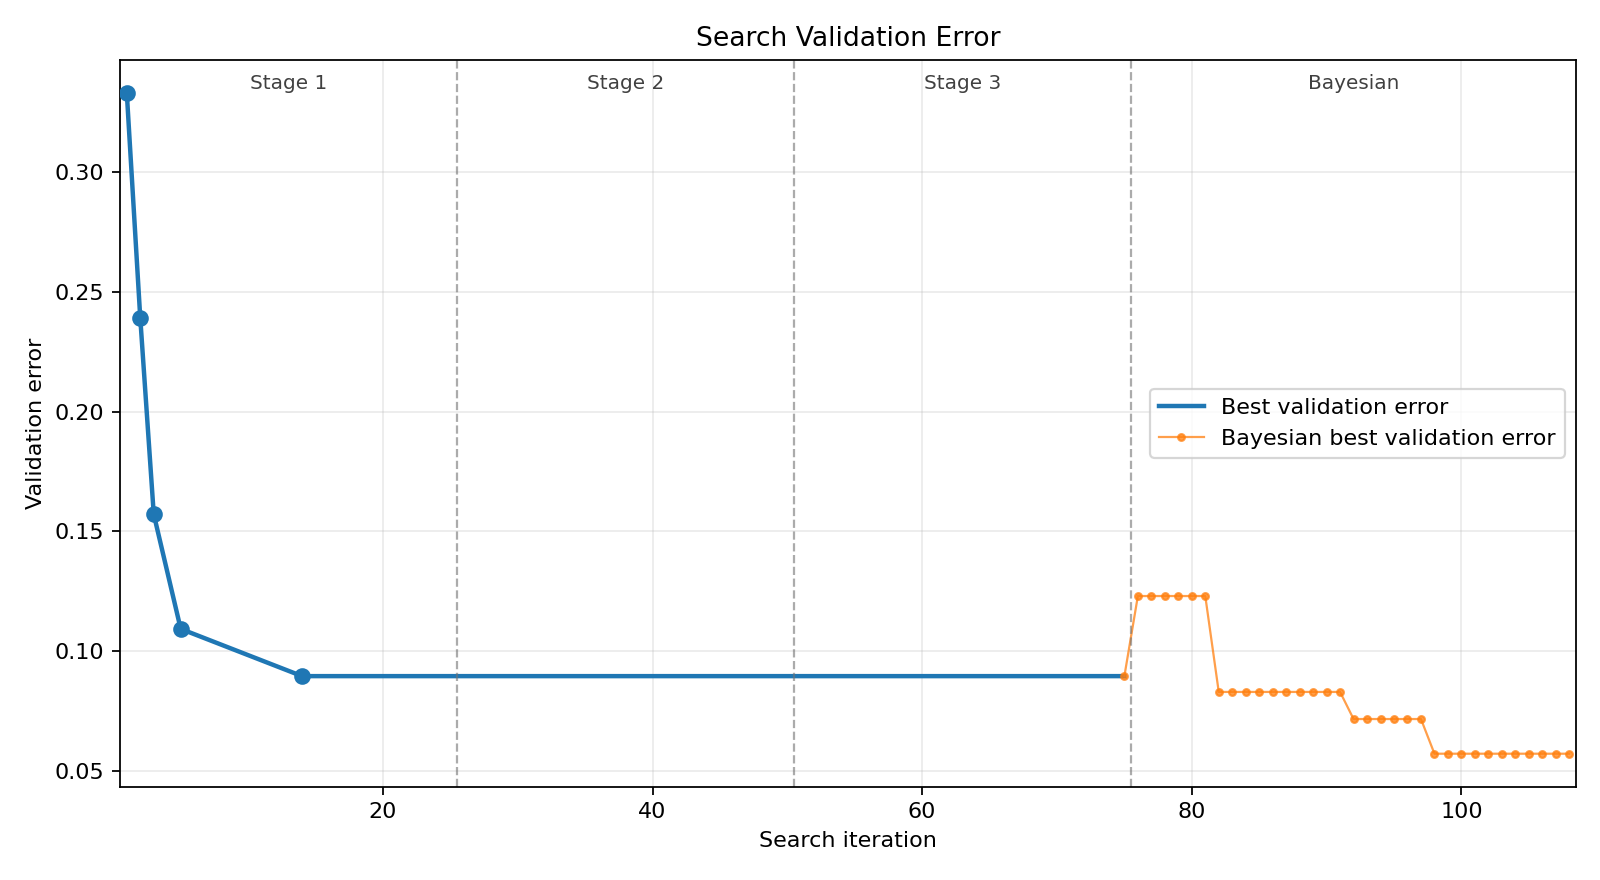
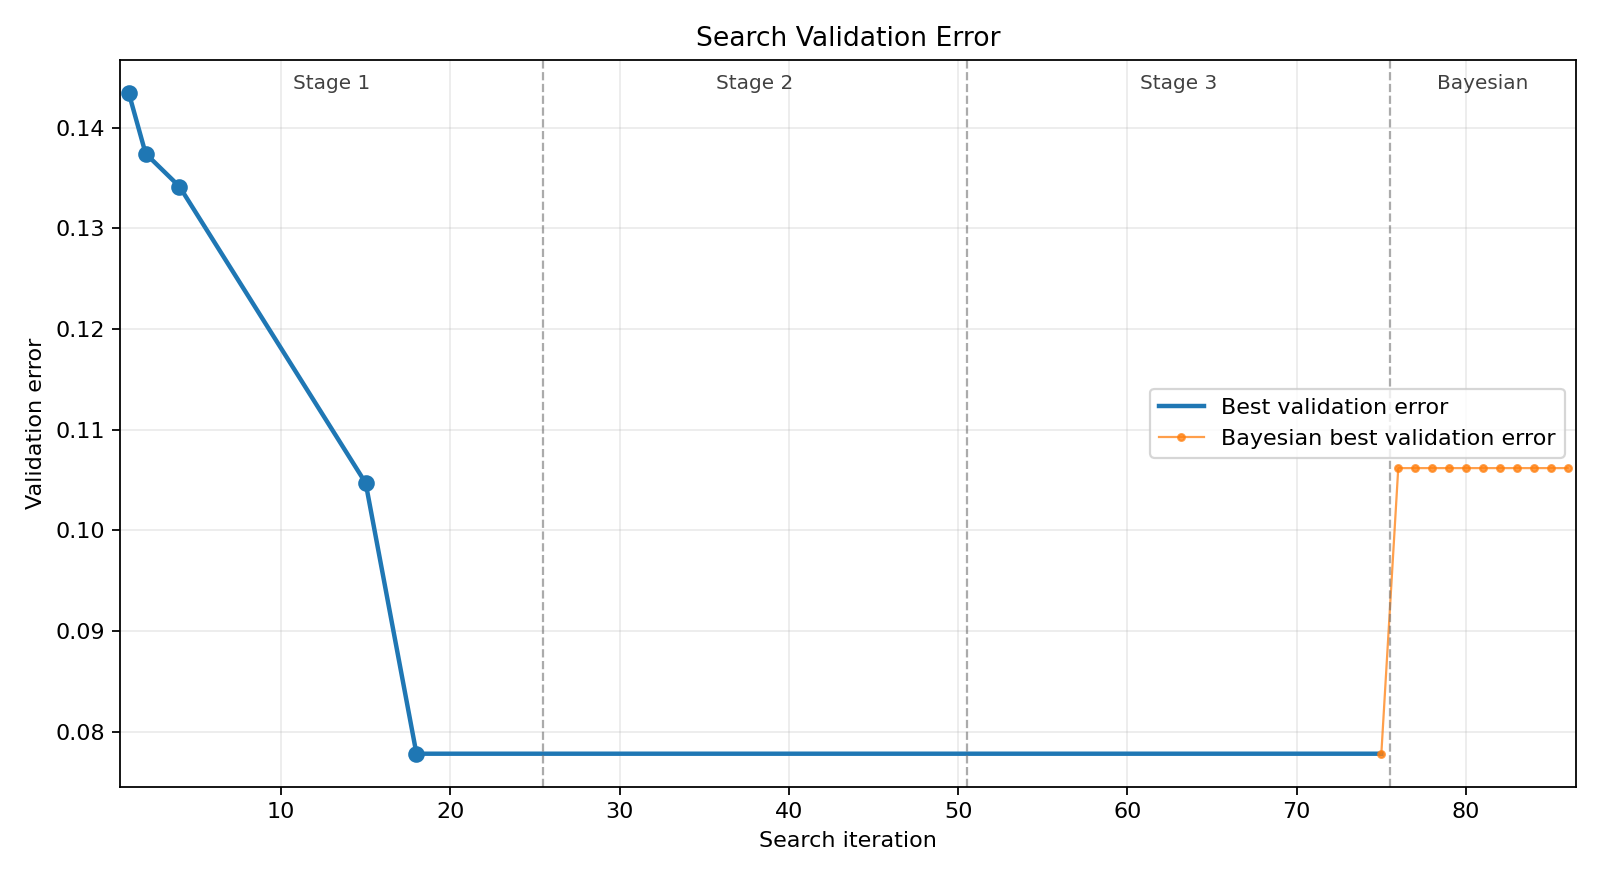
started predef split impl

diff --git a/main.py b/main.py
@@ -2,24 +2,33 @@ import logging
 import random
 
 import numpy as np
+from numpy.typing import NDArray
 
 import config
 import preparation
 import preprocess
 from class_CompositeDescriptor import CompositeDescriptor
 from class_Target import Target
-from postprocess import plot_random_search_validation_error, time_analysis
+from postprocess import plot_random_search_validation_error, runtime_analysis
 from search_random import CompositeKRREstimator, staged_random_search_cv
 from sklearn.compose import TransformedTargetRegressor
 from sklearn.model_selection import KFold
 from utilities import configure_logging, time_dif
 from time import perf_counter
+from config_validation import validate_config
 
 # 0) Initialize
 time_0:float = perf_counter()
+validate_config()
+
 configure_logging(config.VERBOSITY)
 logger = logging.getLogger("CKRR")
 time_log = logging.getLogger("timing")
+
+if config.SEED is None:
+    from time import time
+    config.SEED = int(time())
+    logger.warning(f"`SEED` not set. Setting `SEED` to seconds since epoch ({config.SEED})")
 
 random.seed(config.SEED)
 np.random.seed(config.SEED)
@@ -52,39 +61,61 @@ time_log.info(f"Target prepared in "
 
 # 3) Split/Validate
 time_start_prepare_splits:float = perf_counter()
+if not config.USE_PREDEFINED_SPLITS:
+    if config.N_SAMPLES > TARGET_LENGTH:
+        logger.warning(
+            f"Provided N_SAMPLES ({config.N_SAMPLES}) is greater than the length of the target \
+            ({TARGET_LENGTH}). All indices will be used."
+        )
+        valid_idx = np.arange(TARGET_LENGTH, dtype=int)
+    elif config.N_SAMPLES == TARGET_LENGTH:
+        valid_idx = np.arange(TARGET_LENGTH, dtype=int)
+    else:
+        valid_idx = rng.choice(a=TARGET_LENGTH, size=config.N_SAMPLES, replace=False)
 
-if config.N_SAMPLES > TARGET_LENGTH:
-    logger.warning(
-        f"Provided N_SAMPLES ({config.N_SAMPLES}) is greater than the length of the target \
-        ({TARGET_LENGTH}). All indices will be used."
-    )
-    valid_idx = np.arange(TARGET_LENGTH, dtype=int)
-elif config.N_SAMPLES == TARGET_LENGTH:
-    valid_idx = np.arange(TARGET_LENGTH, dtype=int)
-else:
-    valid_idx = rng.choice(a=TARGET_LENGTH, size=config.N_SAMPLES, replace=False)
+    N_SAMPLES_REMAIN: int = len(valid_idx)
+    N_TRAIN_VAL: int = int(np.floor(N_SAMPLES_REMAIN * config.TRAIN_VAL_SPLIT))
+    N_TEST: int = N_SAMPLES_REMAIN - N_TRAIN_VAL
 
-N_SAMPLES_REMAIN: int = len(valid_idx)
-N_TRAIN_VAL: int = int(np.floor(N_SAMPLES_REMAIN * config.TRAIN_VAL_SPLIT))
-N_TEST: int = N_SAMPLES_REMAIN - N_TRAIN_VAL
+    logger.info(f"{N_TRAIN_VAL} samples to be used for training/validation.")
+    logger.info(f"{N_TEST} samples to be held-out for testing.")
 
-logger.info(f"{N_TRAIN_VAL} samples to be used for training/validation.")
-logger.info(f"{N_TEST} samples to be held-out for testing.")
+    if config.STRATIFY:
+        idx_train_local, idx_test_local = preparation.stratified_selection_with_remainder(
+            target=target_data[valid_idx],
+            n_strata=config.N_STRATA,
+            n_total=N_TRAIN_VAL,
+            rng=rng,
+        )
+        idx_train_val = valid_idx[idx_train_local]
+        idx_test = valid_idx[idx_test_local]
 
-if config.STRATIFY:
-    idx_train_local, idx_test_local = preparation.stratified_selection_with_remainder(
-        target=target_data[valid_idx],
-        n_strata=config.N_STRATA,
-        n_total=N_TRAIN_VAL,
-        rng=rng,
-    )
-    idx_train_val = valid_idx[idx_train_local]
-    idx_test = valid_idx[idx_test_local]
+    else:
+        idx_train_val, idx_test = preparation.randomized_selection_with_remainder(
+            arr=valid_idx, N=N_TRAIN_VAL, rng=rng
+        )
+else: # Using pre-defined splits. Separate config validation.
+    predef_idx_train:NDArray = np.load(config.PREDEF_TRAINING_IDX_PATH)
+    predef_idx_val  :NDArray = np.load(config.PREDEF_VAL_KFOLD_IDX_PATH)
+    predef_idx_test :NDArray = np.load(config.PREDEF_TESTING_IDX_PATH)
 
-else:
-    idx_train_val, idx_test = preparation.randomized_selection_with_remainder(
-        arr=valid_idx, N=N_TRAIN_VAL, rng=rng
-    )
+    N_PREDEF_TRAIN = len(predef_idx_train)
+    N_PREDEF_VAL   = len(predef_idx_val.flatten())
+    N_PREDEF_TEST  = len(predef_idx_test)
+
+    if N_PREDEF_TRAIN + N_PREDEF_VAL + N_PREDEF_TEST > TARGET_LENGTH:
+        raise ValueError("Number of pre-defined indices is greater than the target length. Please check your splits.")
+
+    if config.N_SAMPLES is not None:
+        logger.warning(f"WARNING: You are using pre-defined splits but `N_SAMPLES` is not `None`. Config value will be ignored.")
+    if config.TRAIN_VAL_SPLIT is not None:
+        logger.warning(f"WARNING: You are using pre-defined splits but `TRAIN_VAL_SPLIT` is not `None`. Config value will be ignored." )
+    if config.N_KFOLD is not None:
+        logger.warning(f"WARNING: You are using pre-defined splits but `N_KFOLD` is not `None`. Config value will be ignored." )
+    if config.STRATIFY:
+        logger.warning(f"WARNING: You are using pre-defined splits but `STRATIFY` is not `False`. Config value will be ignored.")
+
+    idx_test = predef_idx_test
 
 time_end_prepare_splits:float = perf_counter()
 
@@ -93,6 +124,7 @@ time_log.info(f"Splits prepared in "
 
 # 4) Begin Training
 time_start_training:float = perf_counter()
+cv = KFold(n_splits=config.N_KFOLD, shuffle=True, random_state=config.SEED)
 
 X_train_val = preprocess.descriptor_blocks_to_sample_matrix(descriptors, idx_train_val)
 y_train_val = target_data[idx_train_val]
@@ -109,7 +141,6 @@ estimator = TransformedTargetRegressor(
     regressor=base_estimator,
     transformer=preprocess.make_target_preprocessor(config.Y_NORM),
 )
-cv = KFold(n_splits=config.N_KFOLD, shuffle=True, random_state=config.SEED)
 
 scoring = (
     "neg_root_mean_squared_error"
@@ -172,7 +203,8 @@ time_log.warning(f"CKRR learning stack completed in {time_dif(time_0, time_f)}."
 
 training_timings = search_result.timings
 
-time_analysis([
+runtime_analysis([
+    (time_0, time_end_initialization, "Initialization"),
     (time_start_prepare_descriptor, time_end_prepare_descriptor, "Descriptor Preparation"),
     (time_start_prepare_target, time_end_prepare_target, "Target Preparation"),
     (time_start_prepare_splits, time_end_prepare_splits, "Split Preparation"),

diff --git a/config_validation.py b/config_validation.py
@@ -1,0 +1,18 @@
+import config
+
+def validate_config() -> None:
+    """
+    Validates your configuration file to make sure your settings are sane before CKRR runs.
+    """
+
+    if type(config.SEED) is not int and config.SEED is not None:
+        raise ValueError(
+            "`SEED` must be of type `int` for set-seed runs "
+            "or of type `None` for the seed to be set to the number of seconds since epoch."
+        )
+
+    if type(config.VERBOSITY) not in {0, 1, 2} and config.VERBOSITY is not None:
+        raise ValueError(
+            "`VERBOSITY` must be in {0, 1, 2} for increasing verbosity of logs "
+            "or of type `None` for the verbosity to be set to 1."
+        )

diff --git a/config.py b/config.py
@@ -1,5 +1,5 @@
-SEED = 1
-VERBOSITY = 1
+SEED = None
+VERBOSITY = 2
 
 X_PATHS = ["sample/desc1.npy", "sample/desc2.npy", "sample/desc3.npy"]
 X_NAMES = ["desc1", "desc2", "desc3"]
@@ -9,9 +9,11 @@ Y_PATH = "sample/target1.npy"
 Y_NAME = "my_target"
 Y_NORM = "standard"
 
-N_SAMPLES = 1000
 USE_PREDEFINED_SPLITS = False
-
+PREDEF_TRAINING_IDX_PATH = "predef_training_idx.npy"
+PREDEF_VAL_KFOLD_IDX_PATH = "predef_val_kfold_idx.npy"
+PREDEF_TESTING_IDX_PATH  = "predef_testing_idx.npy"
+N_SAMPLES = 1000
 TRAIN_VAL_SPLIT = 0.70
 N_KFOLD = 5
 STRATIFY = True

diff --git a/preprocess.py b/preprocess.py
@@ -67,7 +67,7 @@ def make_data_preprocessor(transform: str):
             func=_identity, inverse_func=_identity, validate=False
         )
     if transform == "standard":
-        logger.debug("Data Preprocesor: StandardScaler")
+        # logger.debug("Data Preprocesor: StandardScaler")
         return StandardScaler()
     if transform == "log_standard":
         logger.debug("Data Preprocesor: logStandardScaler")

diff --git a/postprocess.py b/postprocess.py
@@ -278,7 +278,7 @@ def _is_negative_error_scorer(scoring) -> bool:
     return isinstance(scoring, str) and scoring.startswith("neg_")
 
 
-def time_analysis(start_end_list:list[tuple[float, float, str]]) -> None:
+def runtime_analysis(start_end_list:list[tuple[float, float, str]]) -> None:
     dts = []
     for segment in start_end_list:
         dts.append(segment[1] - segment[0])

diff --git a/TODO.md b/TODO.md
@@ -1,0 +1,9 @@
+- [ ] Pre-define splits
+- [ ] Allow pre-computation of kernels
+- [ ] Block processing of kernels
+- [ ] Do some memory estimates for these kernels and log them
+- [ ] Finish post-processing stuff (plots, save logs to file, config to save model.joblib/HPs)
+- [ ] Heuristic for closing in on hyperparameters based on median distance
+- [ ] TF support for GPU-acceleration
+- [ ] Multi-target learning
+- [ ] (Optional) Get language server to stop yelling at everything

diff --git a/README.md b/README.md
@@ -7,3 +7,4 @@ Python package for implementing Kernel Ridge Regression with multiple kernels.
 - Supports K-Fold CV and target-stratification
 - Easy to add multiple descriptors and kernels
 - Multi-target learning planned.
+- Config validation
